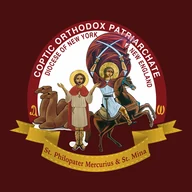
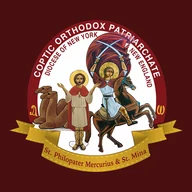
List SPSM Connect on Google Play, and fill the seal's white under the saints
The app is live on Android and still waiting on the App Store, so its card
on /apps shows the Play badge with a line saying the iPhone version is to
come. Its icon is re-copied from the app, whose seal now carries the white
field down under the saints' feet to the ribbon.

Changed region(s): [[0.2812, 0.5938, 0.8125, 0.8125]]

diff --git a/apps/website/src/features/apps/stores.ts b/apps/website/src/features/apps/stores.ts
@@ -43,6 +43,11 @@ export type ParishApp = {
    * there is a date somebody is willing to be held to.
    */
   unreleased?: string;
+  /**
+   * Set on an app that is on one store and not yet the other, and said under
+   * the badge it does have. A plain sentence with no date, like `unreleased`.
+   */
+  pending?: string;
   /** A page on this site that says more, when there is one. */
   more?: { href: string; label: string };
 };
@@ -102,13 +107,12 @@ export const PARISH_APPS: readonly ParishApp[] = [
      * The parish's second app, and the second part of the three-part program the
      * website is the first part of.
      *
-     * It is listed with no links and no date on purpose. Tommy: *"eventually
-     * spsm connect but its not a thing yet."* Naming an unbuilt app is worth it
-     * — somebody will hear it mentioned and come looking — but the honest thing
-     * for this card to say is that there is nothing to install, and it must not
-     * grow a feature list, a screenshot, or a month.
+     * On Google Play and not yet on the App Store. The Play URL has been opened;
+     * there is no App Store URL to open, so the card shows the one badge it can
+     * and says the iPhone version is still to come — with no date, for the same
+     * reason `unreleased` has none.
      */
-    what: 'Our next app, for everyone rather than for servants.',
+    what: 'Our newer app, for everyone rather than for servants.',
     /*
      * The parish's own seal on the brand ground, which is the icon the app
      * ships and the one Apple has — not an invention for a card, which is what
@@ -117,6 +121,7 @@ export const PARISH_APPS: readonly ParishApp[] = [
      * in scripts/optimize-assets.mjs says when to re-copy it.
      */
     icon: 'app-spsm-connect',
-    unreleased: 'Being built. There is nothing to install yet.',
+    android: 'https://play.google.com/store/apps/details?id=org.spsm.connect',
+    pending: 'Not on the App Store yet. The iPhone version is on its way.',
   },
 ];

diff --git a/apps/website/src/app/globals.css b/apps/website/src/app/globals.css
@@ -8611,7 +8611,8 @@ main {
 }
 
 /*
- * Where the badges would be, on an app that has none.
+ * Where the badges would be, on an app that has none — and under the one badge
+ * an app on a single store has, saying the other store is still to come.
  *
  * Deliberately quiet — no pill, no accent colour, no "coming soon" badge of our
  * own. It is a sentence saying there is nothing to install, and dressing it up

diff --git a/apps/website/src/features/apps/ParishAppCard.tsx b/apps/website/src/features/apps/ParishAppCard.tsx
@@ -104,6 +104,8 @@ export function ParishAppCard({
           <StoreBadges ios={app.ios} android={app.android} appName={app.name} />
         )}
 
+        {app.pending && <p className="app-card__unreleased">{app.pending}</p>}
+
         {showMore && app.more && (
           <p className="app-card__more">
             <Link href={app.more.href}>{app.more.label}</Link>

diff --git a/assets/README.md b/assets/README.md
@@ -50,7 +50,7 @@ table records what is known; **unknown is not the same as cleared.**
 | `brand/instagram.svg`, `brand/facebook.svg`, `brand/youtube.svg` | Official brand marks | Third-party trademarks. See below. |
 | `brand/app-store-badge.svg` | Apple Marketing Tools, 2026-08-26 | **Apple trademark.** Official "Download on the App Store" badge, US/UK English, black. Licensed for linking to the App Store only; may not be recoloured, recomposed, redrawn or reworded. Copied through unchanged. |
 | `apps/taksis-icon.png` | Taksis App Store listing (`id6743824691`), 2026-08-27 | **The parish's own.** Apple lists the seller as "ST. PHILOPATER MERCURIUS & ST. MINA COPTIC ORTHODOX CHURCH, INC." The artwork is the sixth-century icon of Christ and St. Menas. 512×512, resized for /apps. |
-| `apps/spsm-connect-icon.png` | SPSM Connect's own `assets/icon.png`, 2026-09-17 | **The parish's own.** The parish seal on the brand ground — the App Store icon the app ships, and the icon Apple has. Copied from the app repository rather than from the listing, because `scripts/make-icons.mjs` there generates it from `config/theme` and that file is the master; Apple's copy is a downscale of it. 1024×1024 reduced to 512, resized again for /apps. Re-copy it if the app is ever restyled. |
+| `apps/spsm-connect-icon.png` | SPSM Connect's own `assets/icon.png`, 2026-10-25 | **The parish's own.** The parish seal on the brand ground — the App Store icon the app ships, and the icon Apple has. Copied from the app repository rather than from the listing, because `scripts/make-icons.mjs` there generates it from `config/theme` and that file is the master; Apple's copy is a downscale of it. 1024×1024 reduced to 512, resized again for /apps. Re-copy it if the app is ever restyled. |
 | `apps/tithely-icon.png` | Tithe.ly App Store listing (`id694740700`), 2026-08-27 | **Your Giving, Inc.'s mark.** Their app's icon, shown on /apps to identify the app the parish's own store badges link to. Resized only — not cropped, recoloured, or rounded in the file. |
 | `brand/google-play-badge.png` | Google Play brand resources, 2026-08-26 | **Google trademark.** Official "Get it on Google Play" generic web badge. May not be modified, and the padding in the file is Google's required clear space — do not crop it. Copied through unchanged. |
 
